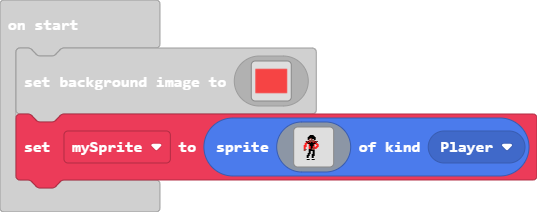
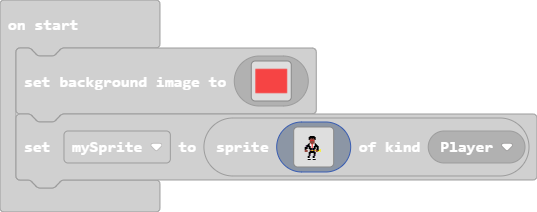
Update main.blocks, main.ts, images.g.jres, images.g.ts

Changed region(s): [[0.0298, 0.5094, 1.0, 0.9057], [0.5661, 0.6509, 0.5959, 0.7642]]

diff --git a/images.g.ts b/images.g.ts
@@ -57,41 +57,6 @@ namespace myImages {
 . . . . . . . . . . . . . . . . 
 . . . . . . . . . . . . . . . . 
 `;
-            case "image3":
-            case "myImage1":return img`
-................................
-................................
-................................
-................................
-................................
-............fffff...............
-...........fffffff..............
-...........ffefeff..............
-...........feeeeef..............
-............e2e2e...............
-............eeeee...............
-............eeeee...............
-...........fdeeedf..............
-..........ff1d2d1ff.............
-........cfff11211fff............
-........cffff121fffff...........
-.......fff.ff121ff.ff...........
-.......fff.fffcfff.ff...........
-.......fe...ffcff.eff.5.........
-.......eee..ee5ee5eef55.........
-.......eee..fffff.ee5.5.........
-...........fffffff..............
-...........ff...ff..............
-...........fc...fc..............
-...........fc...fc..............
-..........ff...ff...............
-..........ff...ff...............
-..........11...11...............
-..........fff..fff..............
-................................
-................................
-................................
-`;
             case "image1":
             case "myImage":return img`
 ................................
@@ -123,6 +88,41 @@ namespace myImages {
 .........ff...ff................
 .........11...11................
 .........fff..fff...............
+................................
+................................
+................................
+`;
+            case "image3":
+            case "myImage1":return img`
+................................
+................................
+................................
+................................
+................................
+............fffff...............
+...........fffffff..............
+...........ffefeff..............
+...........feeeeef..............
+............e2e2e...............
+............eeeee...............
+............eeeee...............
+...........fdeeedf..............
+..........ff1d2d1ff.............
+........cfff11211fff............
+........cffff121fffff...........
+.......fff.ff121ff.ff...........
+.......fff.fffcfff.ff...........
+.......fe...ffcff.eff.5.........
+.......eee..ee5ee5eef55.........
+.......eee..fffff.ee5.5.........
+...........fffffff..............
+...........ff...ff..............
+...........fc...fc..............
+...........fc...fc..............
+..........ff...ff...............
+..........ff...ff...............
+..........11...11...............
+..........fff..fff..............
 ................................
 ................................
 ................................

diff --git a/main.ts b/main.ts
@@ -120,4 +120,4 @@ scene.setBackgroundImage(img`
     2222222222222222222222222222222222222222222222222222222222222222222222222222222222222222222222222222222222222222222222222222222222222222222222222222222222222222
     2222222222222222222222222222222222222222222222222222222222222222222222222222222222222222222222222222222222222222222222222222222222222222222222222222222222222222
     `)
-let mySprite = sprites.create(assets.image`myImage`, SpriteKind.Player)
+let mySprite = sprites.create(assets.image`myImage1`, SpriteKind.Player)
